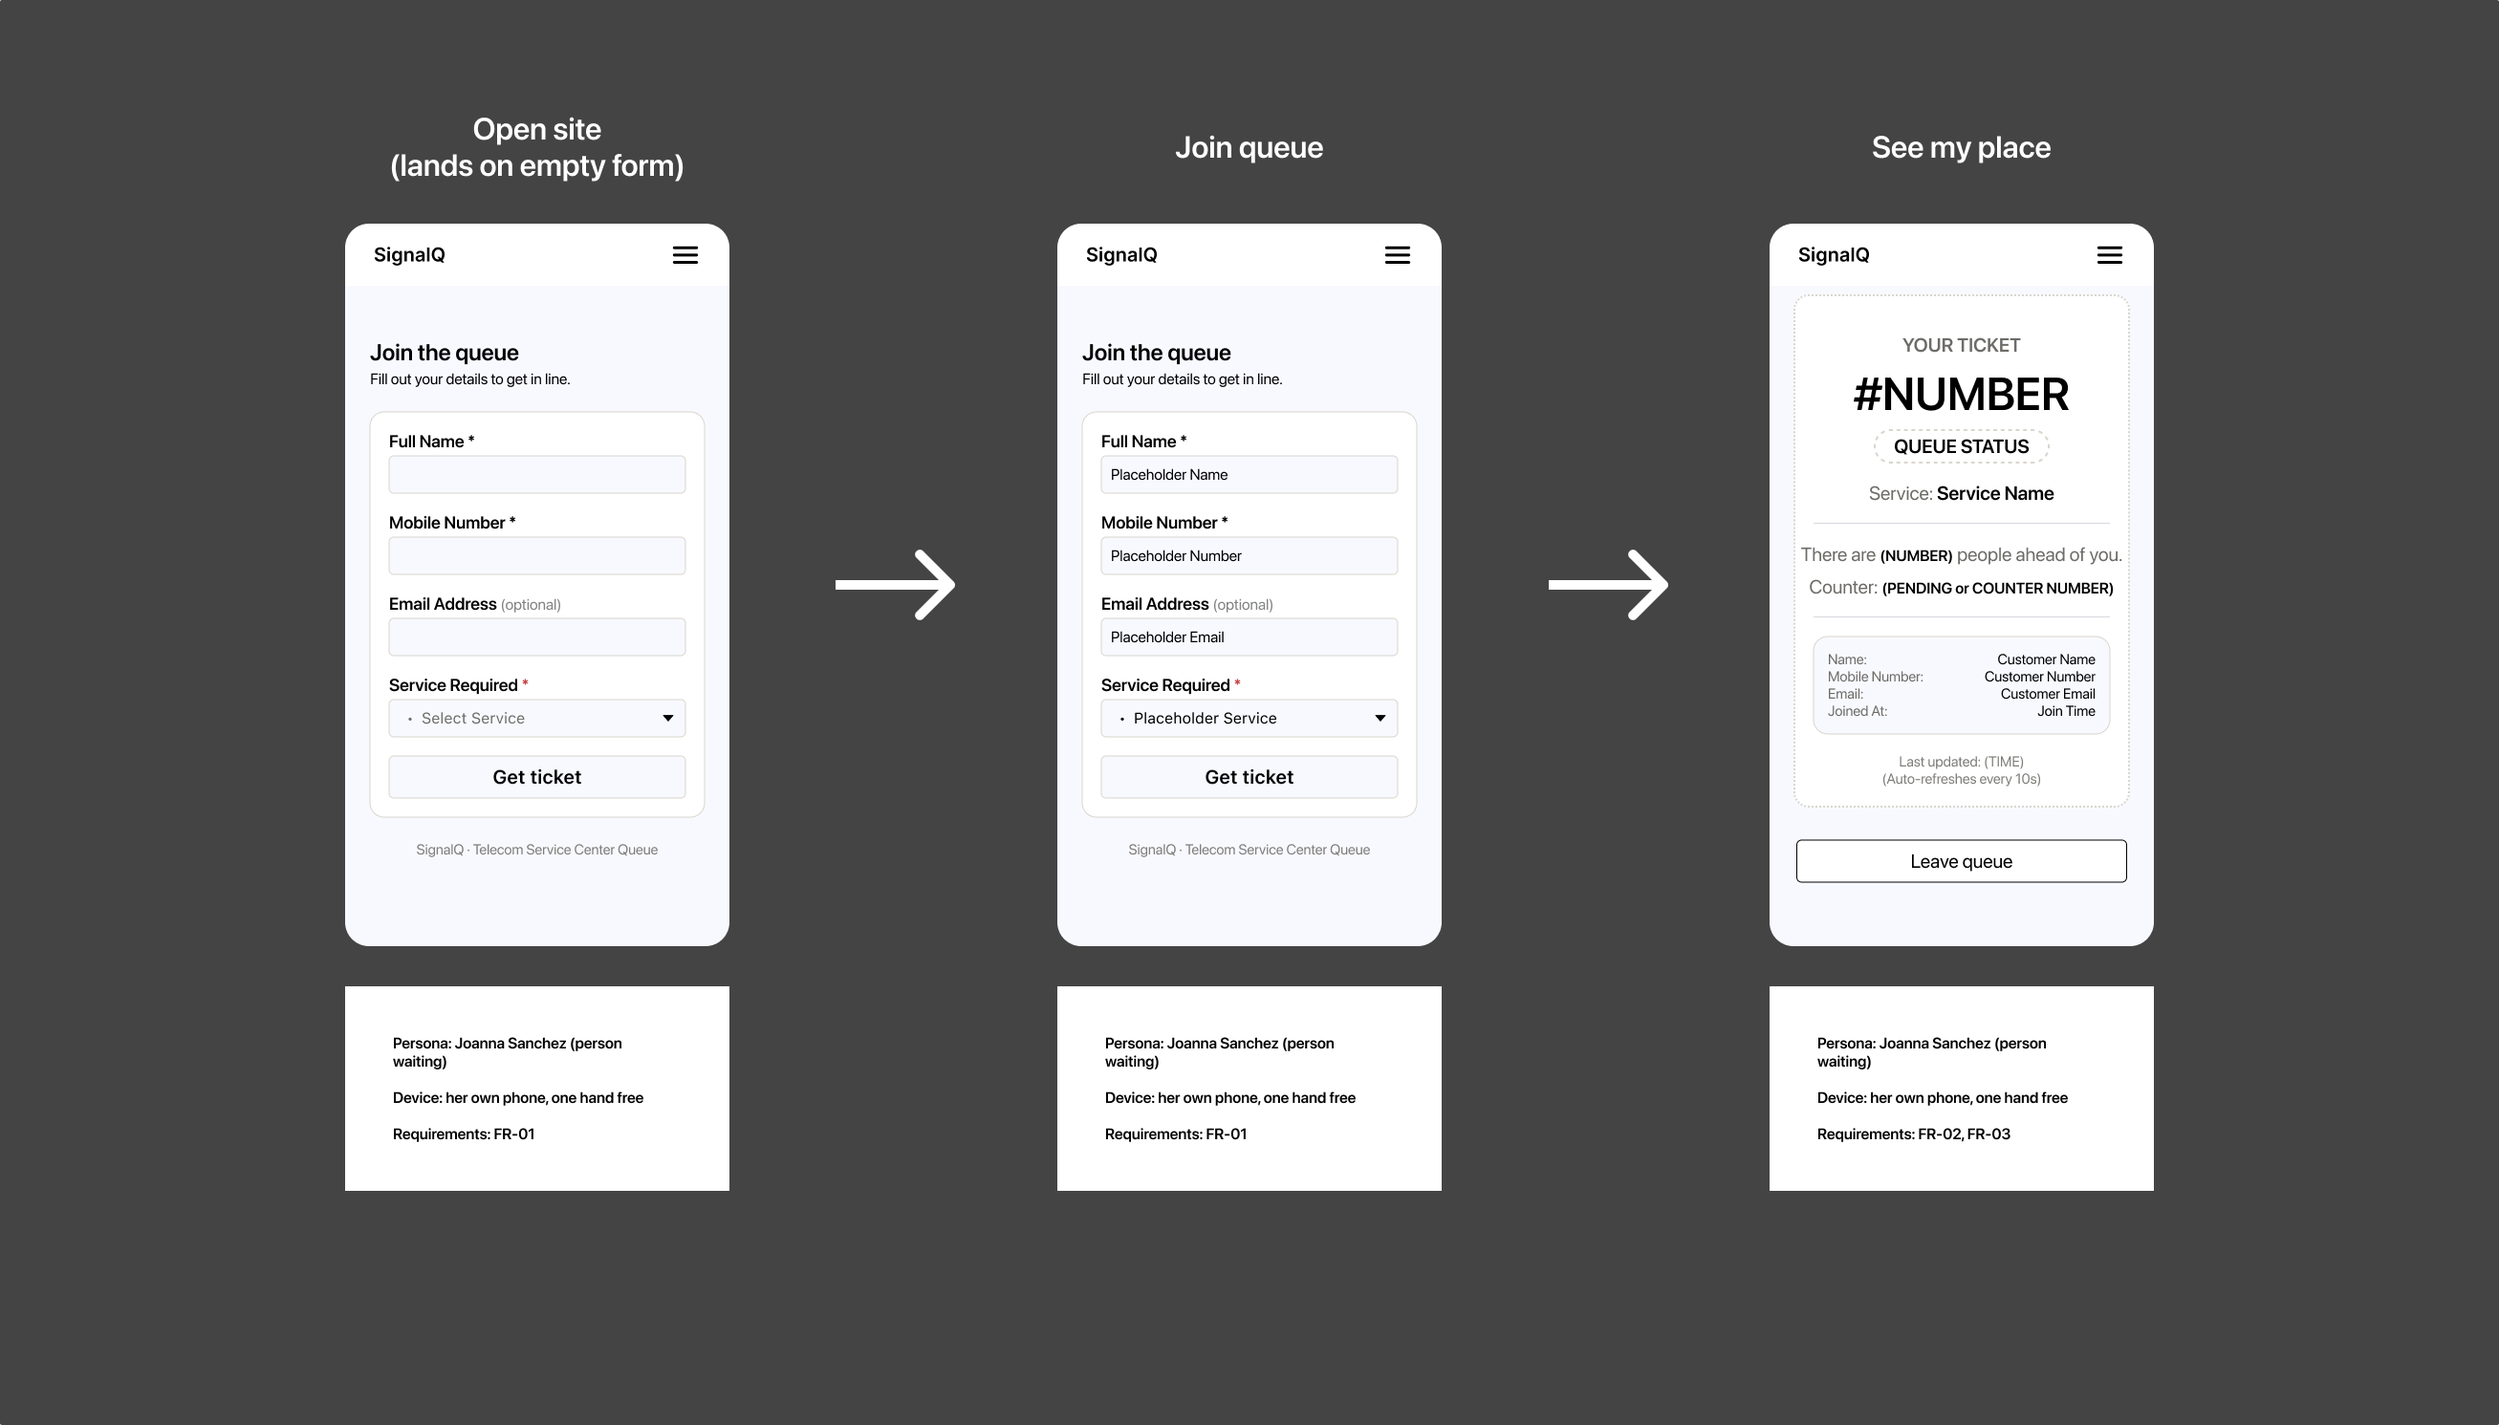
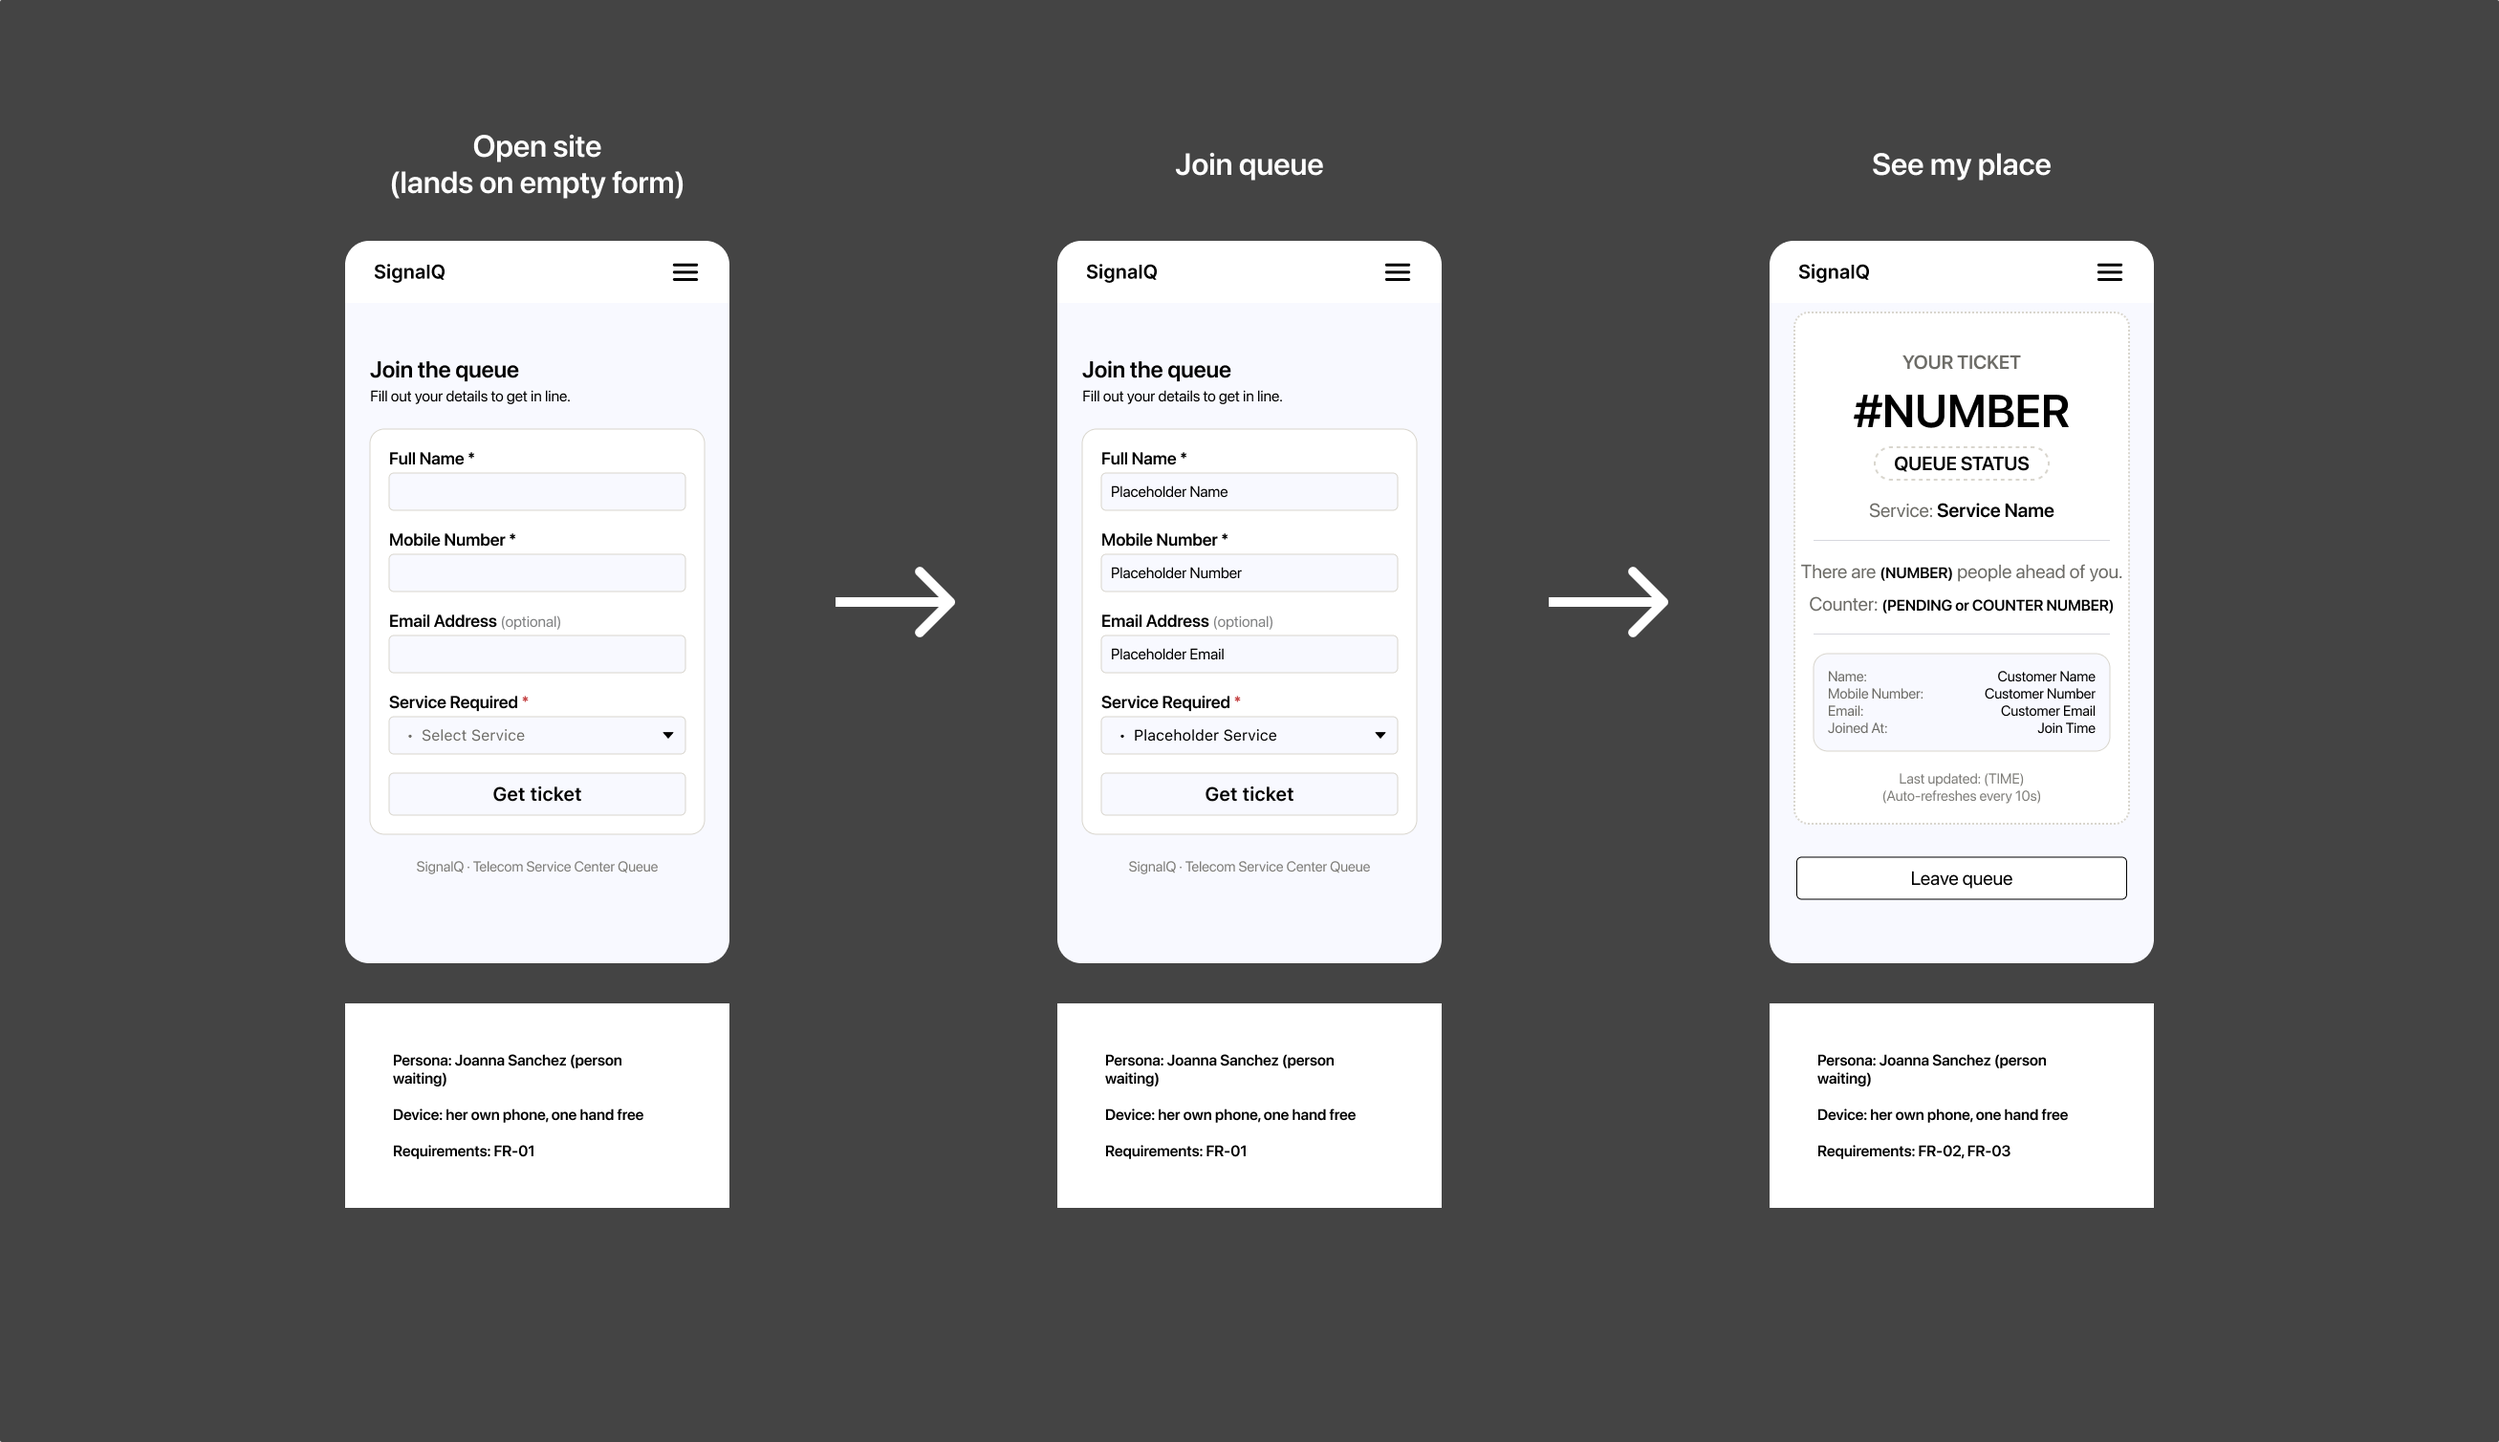
Add feedback and updated wireframes/wireflows

diff --git a/docs/week3/feedback.md b/docs/week3/feedback.md
@@ -1,0 +1,25 @@
+# Week 3 feedback: self-review of personas and wireframes
+
+## Join screen
+
+**Works well:** The form simple and straightforward, with each field having its own row with labels, required fields being highlighted, and "Get ticket" is a full-page button on the phone screen. Joanna carries her bag in one hand, so it takes just a couple of seconds for her to know what to do. It satisfies her rule 4 (big buttons and text, light page without heavy images).
+
+**Problem:** I found no problems that the persona may have. The form is relatively clear and simple to understand. 
+
+**Change:** None. I am keeping both Join frames because they already follow rules 4 and 5 of the persona, and the form has one job.
+
+## My place screen
+
+**Works well:** The number of the ticket is the biggest element in both frames. Below it, there is the persona's chosen service, “There are (NUMBER) people ahead of you” satisfies rule 1, the counter, and “Last updated (auto-refreshes every 10 seconds)” satisfies rule 2. Rule 3 is satisfied through the full-width “Leave queue” button right below the card, which makes it easily noticeable. The status is written in words, not only styled, which fits her accessibility needs. 
+
+**Problem:** Rule 2 says the ticket status and her counter must be in large text. In the frames both are bold but small next to the ticket number. They are readable up close, but Joanna checks her phone one-handed, often at arm's length while she is out and about, so a bit more size would give her margin when she is called (visibility of system status). This is a minor issue.
+
+**Change:** I will make the status and the counter larger. I am keeping the rest of the frames, because the ticket number, the position sentence, the last-updated line and the Leave queue button already follow rules 1, 2 and 3.
+
+## Staff dashboard (FR-04, FR-05, Michael)
+
+**Works well:** Call Next comes first on the Currently Serving card and takes up the full width of the phone screen, because of that, the action that Michael does  most frequently is easily accessible, and it fits rule 1 (keeping his counter busy). The waiting list comes right after the card in order, and each row displays the service and the ticket number, so Michael knows who is next and what service they want before he calls, adhering to rules 1 and 2 (rule 2, preparing in advance). The actions Mark Served and No Show are located within the card of the currently serving ticket (rule 3), so the no-show customer can be dealt with in one place. The laptop navigation menu is fully displayed and the actions are clear buttons with appropriate labels, which means that no hidden menus exist (rule 4).
+
+**Problem:** I found no problem. The three frames (nobody being served, calling the next ticket, mark served) show the whole flow, and the first row of the list is always visible under the Call Next button.
+
+**Change:** None. I am keeping all three staff frames on both phone and desktop because they follow the persona's rules 1 to 4 as written.
